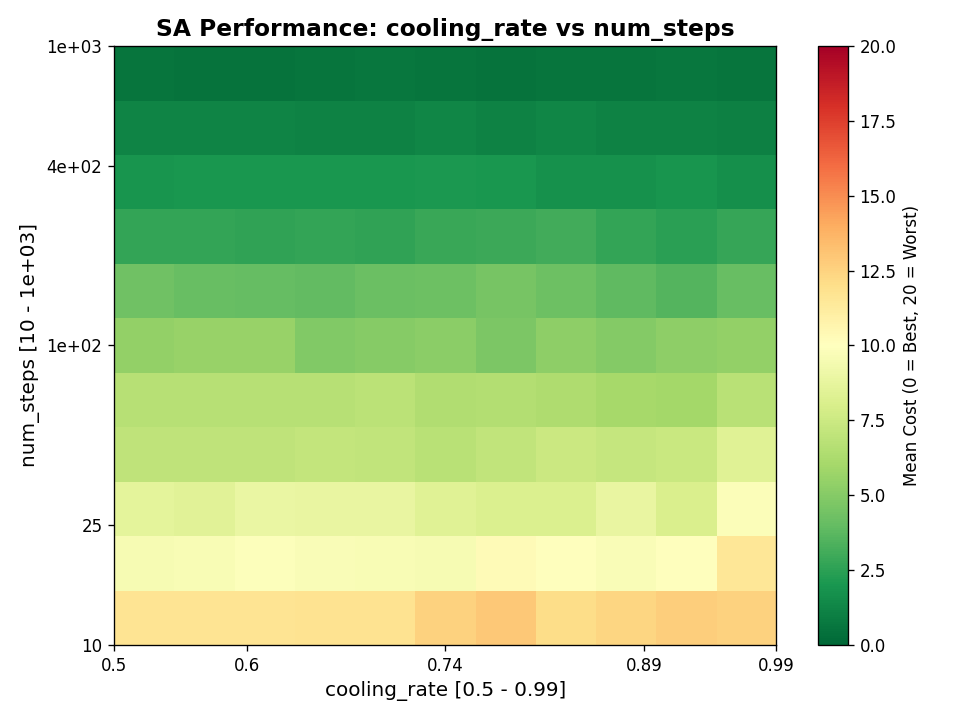
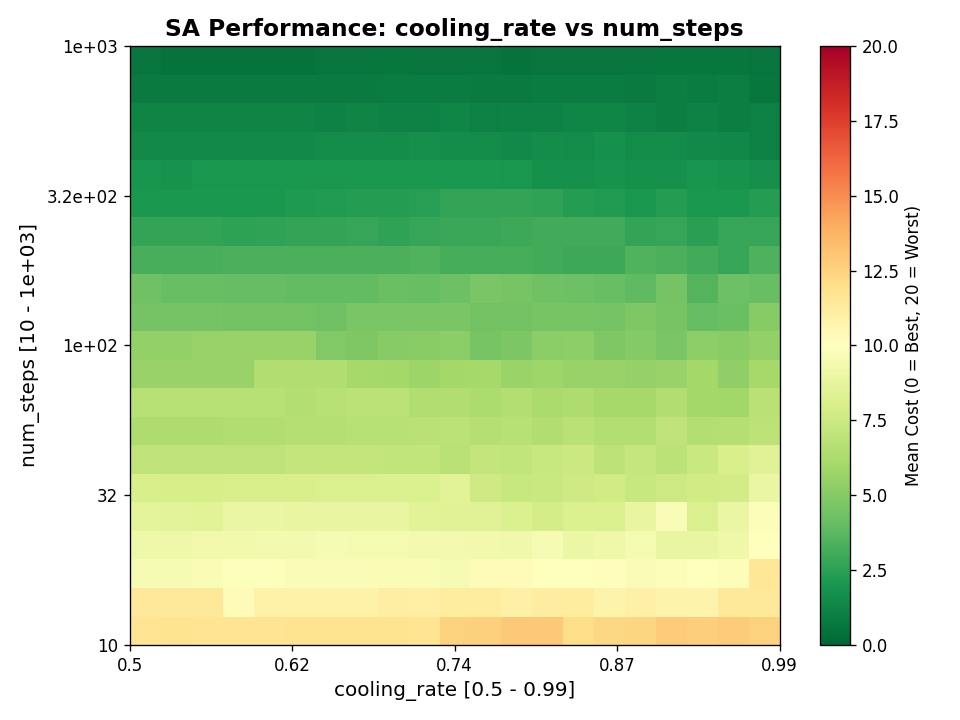
updating grid search images

diff --git a/run_grid_search.py b/run_grid_search.py
@@ -9,7 +9,7 @@ from datetime import datetime
 # =============================================================================
 # SETTINGS
 # =============================================================================
-NN_STEP = 0.1  # Controls grid resolution: 1.0 = 11 points per axis, 0.5 = 21 points, etc.
+NN_STEP = 0.5  # Controls grid resolution: 1.0 = 11 points per axis, 0.5 = 21 points, etc.
 # =============================================================================
 
 def main():
